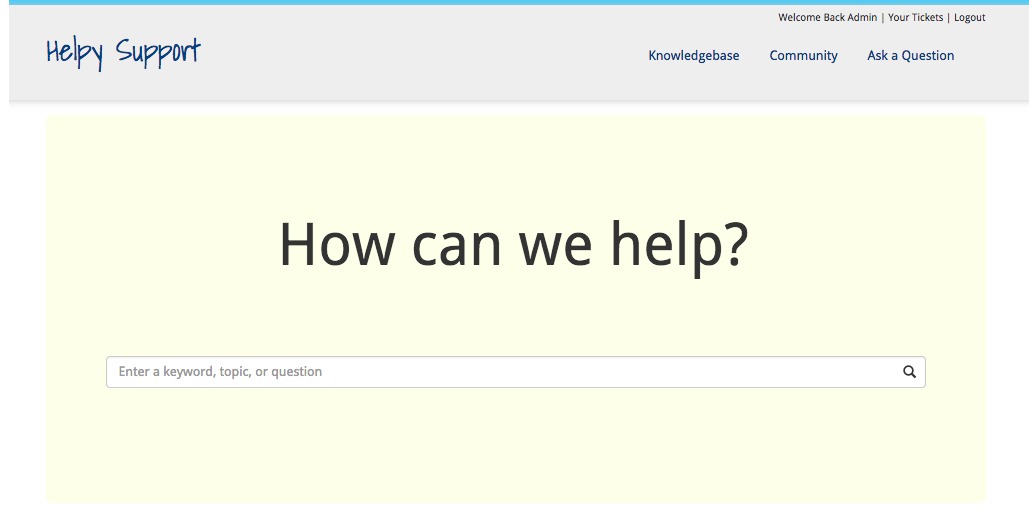
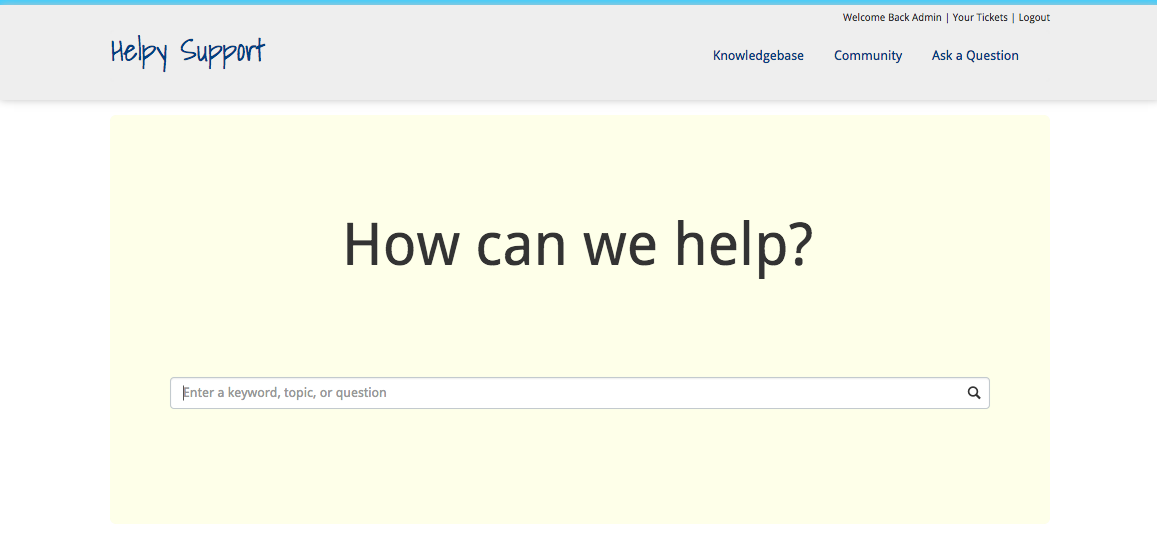
More work on landing page, added images.

diff --git a/index.html b/index.html
@@ -35,7 +35,7 @@
     <div id="top-bar" class="jumbotron">
       <div class="container">
         <div class="row">
-          <div class="col-md-3">
+          <div class="logo col-md-3">
             Helpy
           </div>
           <div class="col-md-9 text-right">
@@ -54,7 +54,7 @@
       <div class="container">
         <div class="row">
           <div class="col-md-12 text-center">
-            <h1>Open source helpdesk software that will delight your customers</h1>
+            <h1>Open source helpdesk software that will delight your customers, and your wallet</h1>
 
             <div class="browser-window">
               <div class="top-bar">
@@ -65,7 +65,7 @@
                 </div>
               </div>
               <div class="content text-left">
-                <div id="carousel-example-generic" class="carousel slide" data-ride="carousel" data-interval="4000">
+                <div id="carousel-example-generic" class="carousel slide" data-ride="carousel" data-interval="6000">
 
                 <!-- Indicators -->
                 <ol class="carousel-indicators">
@@ -84,6 +84,12 @@
                   </div>
                   <div class="item">
                     <img src="images/helpy-3.png" width='100%'>
+                  </div>
+                  <div class="item">
+                    <img src="images/helpy-4.png" width='100%'>
+                  </div>
+                  <div class="item">
+                    <img src="images/helpy-5.png" width='100%'>
                   </div>
                 </div>
 
@@ -113,15 +119,18 @@
           </div>
         </div>
         <div class="row">
-          <div class="col-md-4">
+          <div class="col-md-4 text-center">
+            <div><img src="images/tickets.png" class="img-circle"></div>
             <h3>Ticketing</h3>
             <p>Helpy features a complete ticketing system, fully integrated with support email.</p>
           </div>
-          <div class="col-md-4">
+          <div class="col-md-4 text-center">
+            <img src="images/knowledgebase.png" class="img-circle">
             <h3>Knowledgebase</h3>
             <p>Build a full online knowledgebase to cut down on support tickets</p>
           </div>
-          <div class="col-md-4">
+          <div class="col-md-4 text-center">
+            <img src="images/discussion.png" class="img-circle">
             <h3>Community</h3>
             <p>Build a full online knowledgebase to cut down on support tickets</p>
           </div>
@@ -136,21 +145,42 @@
         </div>
       </div>
       <div class="row">
-        <div class="col-md-4">
+        <div class="col-md-4 more-features">
           <h4>Analyze Everything</h4>
           <p>Commercial solutions give you a half baked reporting system.  Helpy is fully integrated with GA, which is the tool you would rather get your data from anyways, right?</p>
         </div>
-        <div class="col-md-4">
+        <div class="col-md-4 more-features">
           <h4>Customize Anything</h4>
           <p>Helpy is open source software, ready for you to just use, or customize and extend as far as you want to take it.</p>
         </div>
-        <div class="col-md-4">
+        <div class="col-md-4 more-features">
           <h4>Pay Nothing</h4>
           <p>No monthly fees, no per agent seat costs, and not even a hosting bill if you stay under 1000 tickets per month*</p>
         </div>
       </div>
+      <div class="row">
+        <div class="col-md-4 more-features">
+          <h4>Integrated Full Text Search</h4>
+          <p>Out of the box, Helpy is preconfigured to use Postgres full text search, to help your users find solutions to their problems before contacting you.</p>
+        </div>
+        <div class="col-md-4 more-features">
+          <h4>Full Responsive Design</h4>
+          <p>You and your agents aim to provide support from anywhere. And Helpy will help you by working on any device- mobile, tablet or desktop.</p>
+        </div>
+        <div class="col-md-4 more-features">
+          <h4>Multi-lingual</h4>
+          <p>Helpy comes with front-end translation packs for German, French, Spanish and Russian.  It is easy to add your own internationalization.</p>
+        </div>
+      </div>
     </div>
 
+    <div id="how-to-get-it" class="container">
+      <div class="row">
+        <div class="col-md-12 text-center">
+          <h2>How do I get it?</h2>
+        </div>
+      </div>
+    </div>
 
     <!-- jQuery (necessary for Bootstrap's JavaScript plugins) -->
     <script src="https://ajax.googleapis.com/ajax/libs/jquery/1.11.2/jquery.min.js"></script>

diff --git a/css/base.css b/css/base.css
@@ -1,10 +1,23 @@
+
+h1 {
+	margin-bottom: 40px;
+}
+
+h2 {
+	margin-bottom: 60px;
+}
+
 #top-bar {
 	margin-bottom: 0px;
+	background-color: white;
+}
+
+#top-bar.jumbotron {
+	padding-top: 25px;
 }
 
 #browser-bar {
   background-color: white;
-  z-index: 1;
 }
 
 #content-bar {
@@ -13,7 +26,14 @@
 	color: white;
 }
 
-.carousel-control.right{
-	right:0;
-	left:auto;
+.more-features {
+	margin-bottom: 20px;
+}
+
+.logo {
+  font-family: 'Shadows Into Light', sans-serif;
+  padding: 0px;
+  font-size: 400%;
+  font-weight: bold;
+  margin-top: -30px;
 }
